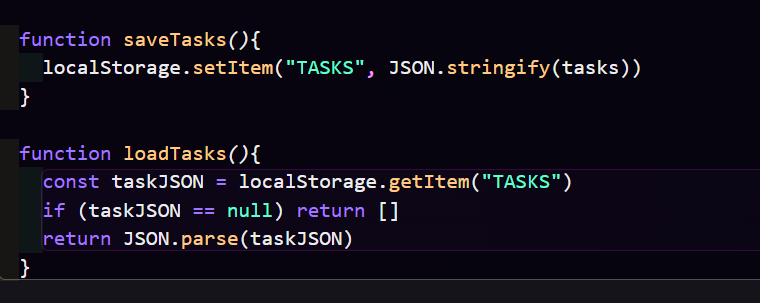
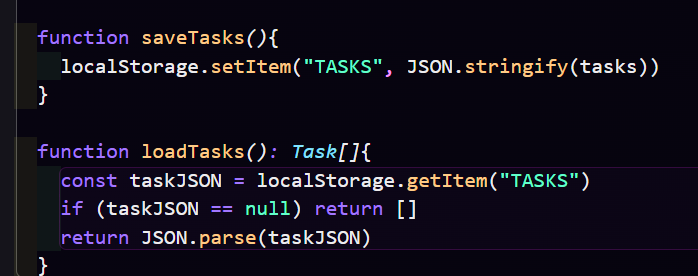
update asset localStorage

diff --git a/src/index.ts b/src/index.ts
@@ -7,9 +7,9 @@ type Task = {
   createdAt: Date
 }
 
-const list = document.querySelector<HTMLUListElement>("#list");
-const form = document.getElementById("#new-task-form") as HTMLFormElement | null;
-const input = document.querySelector<HTMLInputElement>("#new-task-title");
+const list = document.querySelector<HTMLUListElement>("#list")
+const form = document.getElementById("#new-task-form") as HTMLFormElement | null
+const input = document.querySelector<HTMLInputElement>("#new-task-title")
 
 const tasks: Task[] = loadTasks()
 tasks.forEach(addListItem)
@@ -26,6 +26,7 @@ form?.addEventListener("submit", e => {
     createdAt: new Date(),
   }
   tasks.push(newTask)
+  saveTasks()
 
   addListItem(newTask)
   input.value = ""
@@ -49,7 +50,7 @@ form?.addEventListener("submit", e => {
     localStorage.setItem("TASKS", JSON.stringify(tasks))
   }
 
-  function loadTasks(){
+  function loadTasks(): Task[]{
     const taskJSON = localStorage.getItem("TASKS")
     if (taskJSON == null) return []
     return JSON.parse(taskJSON)
